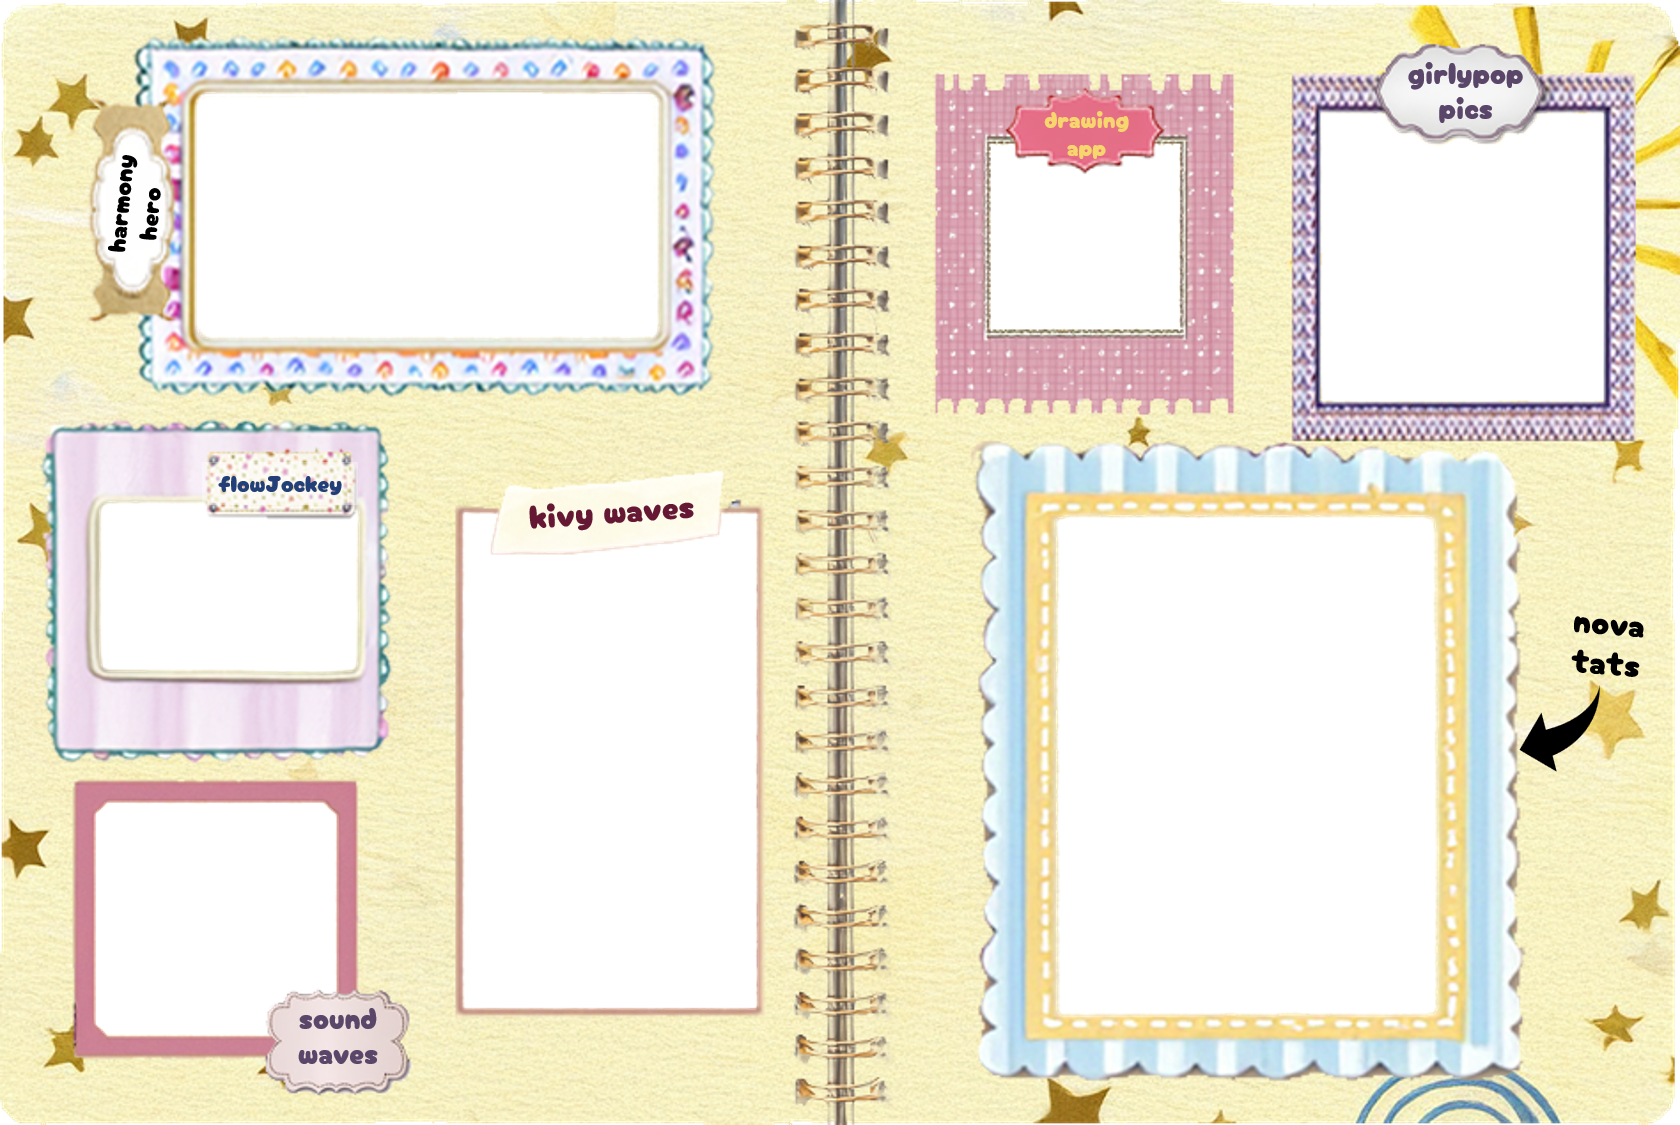
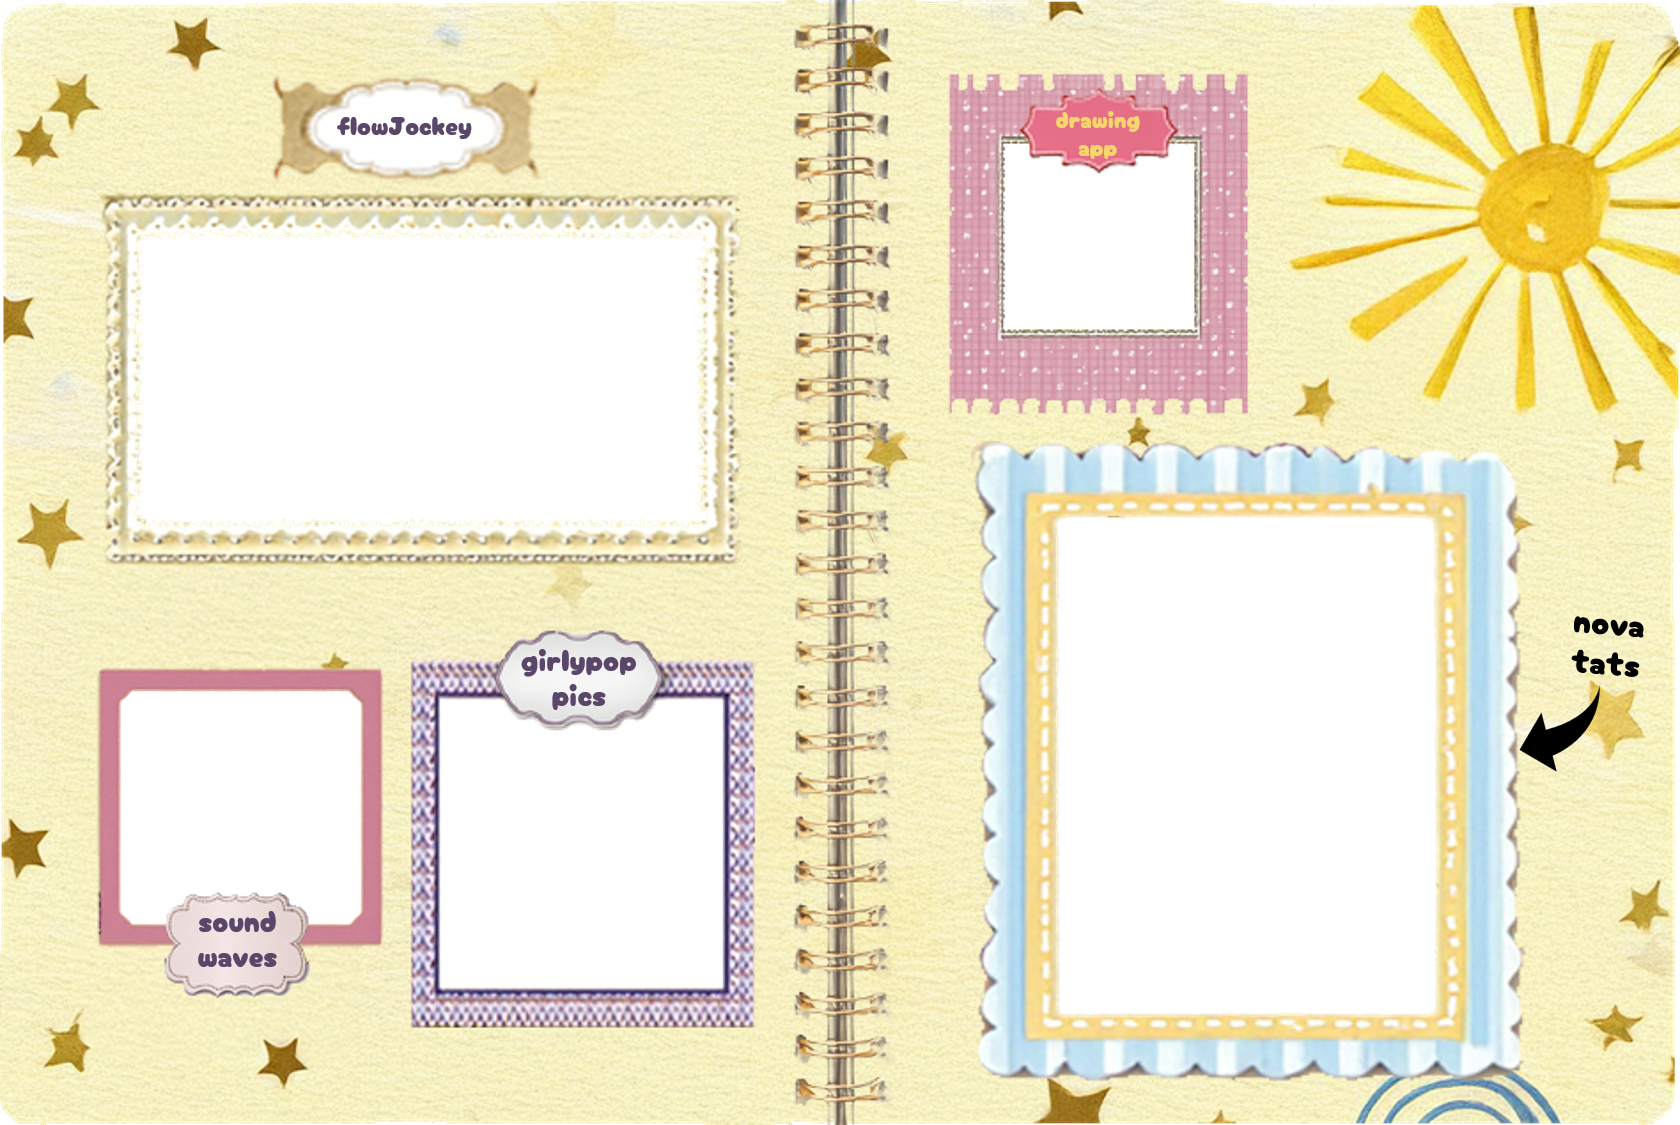
fixed web app

diff --git a/coding_projects.html b/coding_projects.html
@@ -40,7 +40,7 @@
             <canvas id="reference-canvas" style="position: absolute; top: 0; left: 0;"></canvas>
 
             <!-- The Reference Image -->
-            <img src="assets/images/interactive_exhibits_scrap.png" class="dynamic-image reference-image" alt="Reference Image" style="z-index: 100;">
+            <img src="assets/images/web_apps_scrap.png" class="dynamic-image reference-image" alt="Reference Image" style="z-index: 100;">
 
             <!-- Dependent Images -->
             <a href="personal_favs.html">
@@ -60,20 +60,32 @@
             </a>
 
             <!-- Filler Images -->
-            <a href="ps70_final.html" target="_blank" class="filler-container" data-top="20" data-left="5.5" data-width="19.5" data-height="21.5" style="transform: rotate(-8deg); transform-origin: center;">
-                <img src="assets/images/capacitor_in_use.png" class="filler-image" alt="Description of the image">
-                <div class="hover-text">3d led pixel array!! uses touchdesigner, python, arduino ide, and the wled api...</div>
-            </a>
-            <a href="ps70_final.html" target="_blank" class="filler-container" data-top="7.5" data-left="29" data-width="17" data-height="37">
-                <img src="assets/images/board_light.jpg" class="filler-image" alt="Description of the image">
+            <a href="ps70_final.html" target="_blank" class="filler-container" data-top="10" data-left="78" data-width="18" data-height="26">
+                <img src="assets/images/girlypop_pics.png" class="filler-image" alt="Description of the image">
                 <div class="hover-text">3d led pixel array!! uses touchdesigner, python, arduino ide, and the wled api to create an audiovisual experience... linked to internal computer audio so able to play any song!!</div>
             </a>
-            <a href="ps70_final.html" target="_blank" class="filler-container" data-top="53" data-left="8.5" data-width="32" data-height="29">
-                <img src="assets/images/reflected_identities.jpg" class="filler-image"  style="transform: scaleX(-1); transform-origin: center;" alt="Description of the image">
-                <div class="hover-text">3d led pixel array!! uses touchdesigner, python, arduino ide, and the wled api...</div>
+            <a href="ps70_final.html" target="_blank" class="filler-container" data-top="45.5" data-left="62.5" data-width="23" data-height="45">
+                <img src="assets/images/nova_tats.png" class="filler-image" alt="Description of the image">
+                <div class="hover-text">3d led pixel array!! uses touchdesigner, python, arduino ide, and the wled api to create an audiovisual experience... linked to internal computer audio so able to play any song!!</div>
             </a>
-            <a href="ps70_final.html" target="_blank" class="filler-container" data-top="25" data-left="61" data-width="28" data-height="59.5">
-                <img src="assets/images/led_array.png" class="filler-image" alt="Description of the image">
+            <a href="ps70_final.html" target="_blank" class="filler-container" data-top="44.5" data-left="5.5" data-width="16" data-height="15.5">
+                <img src="assets/images/flow_jockey.png" class="filler-image" alt="Description of the image">
+                <div class="hover-text">3d led pixel array!! uses touchdesigner, python, arduino ide, and the wled api to create an audiovisual experience... linked to internal computer audio so able to play any song!!</div>
+            </a>
+            <a href="ps70_final.html" target="_blank" class="filler-container" data-top="12.5" data-left="59" data-width="12" data-height="17">
+                <img src="assets/images/drawing_app.png" class="filler-image" alt="Description of the image">
+                <div class="hover-text">3d led pixel array!! uses touchdesigner, python, arduino ide, and the wled api to create an audiovisual experience... linked to internal computer audio so able to play any song!!</div>
+            </a>
+            <a href="ps70_final.html" target="_blank" class="filler-container" data-top="8" data-left="12" data-width="27" data-height="22">
+                <img src="assets/images/harmony_hero.png" class="filler-image" alt="Description of the image">
+                <div class="hover-text">3d led pixel array!! uses touchdesigner, python, arduino ide, and the wled api to create an audiovisual experience... linked to internal computer audio so able to play any song!!</div>
+            </a>
+            <a href="ps70_final.html" target="_blank" class="filler-container" data-top="70.5" data-left="5.5" data-width="14.5" data-height="22">
+                <img src="assets/images/sound_waves.png" class="filler-image" alt="Description of the image">
+                <div class="hover-text">3d led pixel array!! uses touchdesigner, python, arduino ide, and the wled api to create an audiovisual experience... linked to internal computer audio so able to play any song!!</div>
+            </a>
+            <a href="ps70_final.html" target="_blank" class="filler-container" data-top="45.5" data-left="27" data-width="18.5" data-height="44.5">
+                <img src="assets/images/kivy_waves.png" class="filler-image" alt="Description of the image">
                 <div class="hover-text">3d led pixel array!! uses touchdesigner, python, arduino ide, and the wled api to create an audiovisual experience... linked to internal computer audio so able to play any song!!</div>
             </a>
         </div>

diff --git a/web_apps.html b/web_apps.html
@@ -49,18 +49,18 @@
             <a href="web_apps.html">
                 <img src="assets/images/web_apps.png" class="dynamic-image dependent-image" alt="Dependent Image">
             </a>
-            <a href="interactive_exhibits.html">
-                <img src="assets/images/interactive_exhibits.png" class="dynamic-image dependent-image" alt="Dependent Image">
-            </a>
             <a href="digital_fabrication.html">
                 <img src="assets/images/digital_fab.png" class="dynamic-image dependent-image" alt="Dependent Image">
+            </a>
+            <a href="interactive_exhibits.html">
+                <img src="assets/images/interactive_exhibits.png" class="dynamic-image dependent-image" alt="Dependent Image">
             </a>
             <a href="architecture.html">
                 <img src="assets/images/arch.png" class="dynamic-image dependent-image" alt="Dependent Image">
             </a>
 
             <!-- Filler Images -->
-            <a href="ps70_final.html" target="_blank" class="filler-container" data-top="10" data-left="78" data-width="18" data-height="26">
+            <a href="ps70_final.html" target="_blank" class="filler-container" data-top="62" data-left="26" data-width="17" data-height="26">
                 <img src="assets/images/girlypop_pics.png" class="filler-image" alt="Description of the image">
                 <div class="hover-text">3d led pixel array!! uses touchdesigner, python, arduino ide, and the wled api to create an audiovisual experience... linked to internal computer audio so able to play any song!!</div>
             </a>
@@ -68,7 +68,7 @@
                 <img src="assets/images/nova_tats.png" class="filler-image" alt="Description of the image">
                 <div class="hover-text">3d led pixel array!! uses touchdesigner, python, arduino ide, and the wled api to create an audiovisual experience... linked to internal computer audio so able to play any song!!</div>
             </a>
-            <a href="ps70_final.html" target="_blank" class="filler-container" data-top="44.5" data-left="5.5" data-width="16" data-height="15.5">
+            <a href="ps70_final.html" target="_blank" class="filler-container" data-top="20.5" data-left="8" data-width="35" data-height="26">
                 <img src="assets/images/flow_jockey.png" class="filler-image" alt="Description of the image">
                 <div class="hover-text">3d led pixel array!! uses touchdesigner, python, arduino ide, and the wled api to create an audiovisual experience... linked to internal computer audio so able to play any song!!</div>
             </a>
@@ -76,16 +76,8 @@
                 <img src="assets/images/drawing_app.png" class="filler-image" alt="Description of the image">
                 <div class="hover-text">3d led pixel array!! uses touchdesigner, python, arduino ide, and the wled api to create an audiovisual experience... linked to internal computer audio so able to play any song!!</div>
             </a>
-            <a href="ps70_final.html" target="_blank" class="filler-container" data-top="8" data-left="12" data-width="27" data-height="22">
-                <img src="assets/images/harmony_hero.png" class="filler-image" alt="Description of the image">
-                <div class="hover-text">3d led pixel array!! uses touchdesigner, python, arduino ide, and the wled api to create an audiovisual experience... linked to internal computer audio so able to play any song!!</div>
-            </a>
-            <a href="ps70_final.html" target="_blank" class="filler-container" data-top="70.5" data-left="5.5" data-width="14.5" data-height="22">
+            <a href="ps70_final.html" target="_blank" class="filler-container" data-top="61" data-left="7" data-width="14.5" data-height="22">
                 <img src="assets/images/sound_waves.png" class="filler-image" alt="Description of the image">
-                <div class="hover-text">3d led pixel array!! uses touchdesigner, python, arduino ide, and the wled api to create an audiovisual experience... linked to internal computer audio so able to play any song!!</div>
-            </a>
-            <a href="ps70_final.html" target="_blank" class="filler-container" data-top="45.5" data-left="27" data-width="18.5" data-height="44.5">
-                <img src="assets/images/kivy_waves.png" class="filler-image" alt="Description of the image">
                 <div class="hover-text">3d led pixel array!! uses touchdesigner, python, arduino ide, and the wled api to create an audiovisual experience... linked to internal computer audio so able to play any song!!</div>
             </a>
         </div>

diff --git a/personal_favs.html b/personal_favs.html
@@ -49,15 +49,16 @@
             <a href="web_apps.html">
                 <img src="assets/images/web_apps.png" class="dynamic-image dependent-image" alt="Dependent Image">
             </a>
-            <a href="interactive_exhibits.html">
-                <img src="assets/images/interactive_exhibits.png" class="dynamic-image dependent-image" alt="Dependent Image">
-            </a>
             <a href="digital_fabrication.html">
                 <img src="assets/images/digital_fab.png" class="dynamic-image dependent-image" alt="Dependent Image">
+            </a>
+            <a href="interactive_exhibits.html">
+                <img src="assets/images/interactive_exhibits.png" class="dynamic-image dependent-image" alt="Dependent Image">
             </a>
             <a href="architecture.html">
                 <img src="assets/images/arch.png" class="dynamic-image dependent-image" alt="Dependent Image">
             </a>
+            
             <!-- Filler Images -->
             <a href="ps70_final.html" target = "_blank" class = "filler-container" data-top="22" data-left = "12" data-width="26" data-height="63">
                     <video autoplay muted loop class="filler-image">

diff --git a/proceduraldesign.html b/proceduraldesign.html
@@ -45,8 +45,8 @@
             <!-- Other images positioned relative to the reference image -->
             <a href = "personal_favs.html"><img src="assets/images/personal_favs.png" class="dynamic-image dependent-image"></a>
             <a href = "web_apps.html"><img src="assets/images/web_apps.png" class="dynamic-image dependent-image"></a>
-            <a href = "interactive_exhibits.html"><img src="assets/images/interactive_exhibits.png" class="dynamic-image dependent-image"></a>
             <a href = "index.html"><img src="assets/images/digital_fab.png" class="dynamic-image dependent-image"></a>
+            <a href = "interactive_exhibits.html"><img src="assets/images/interactive_exhibits.png" class="dynamic-image dependent-image"></a>
             <a href = "index.html"><img src="assets/images/arch.png" class="dynamic-image dependent-image"></a>
         </div>
     </div>
